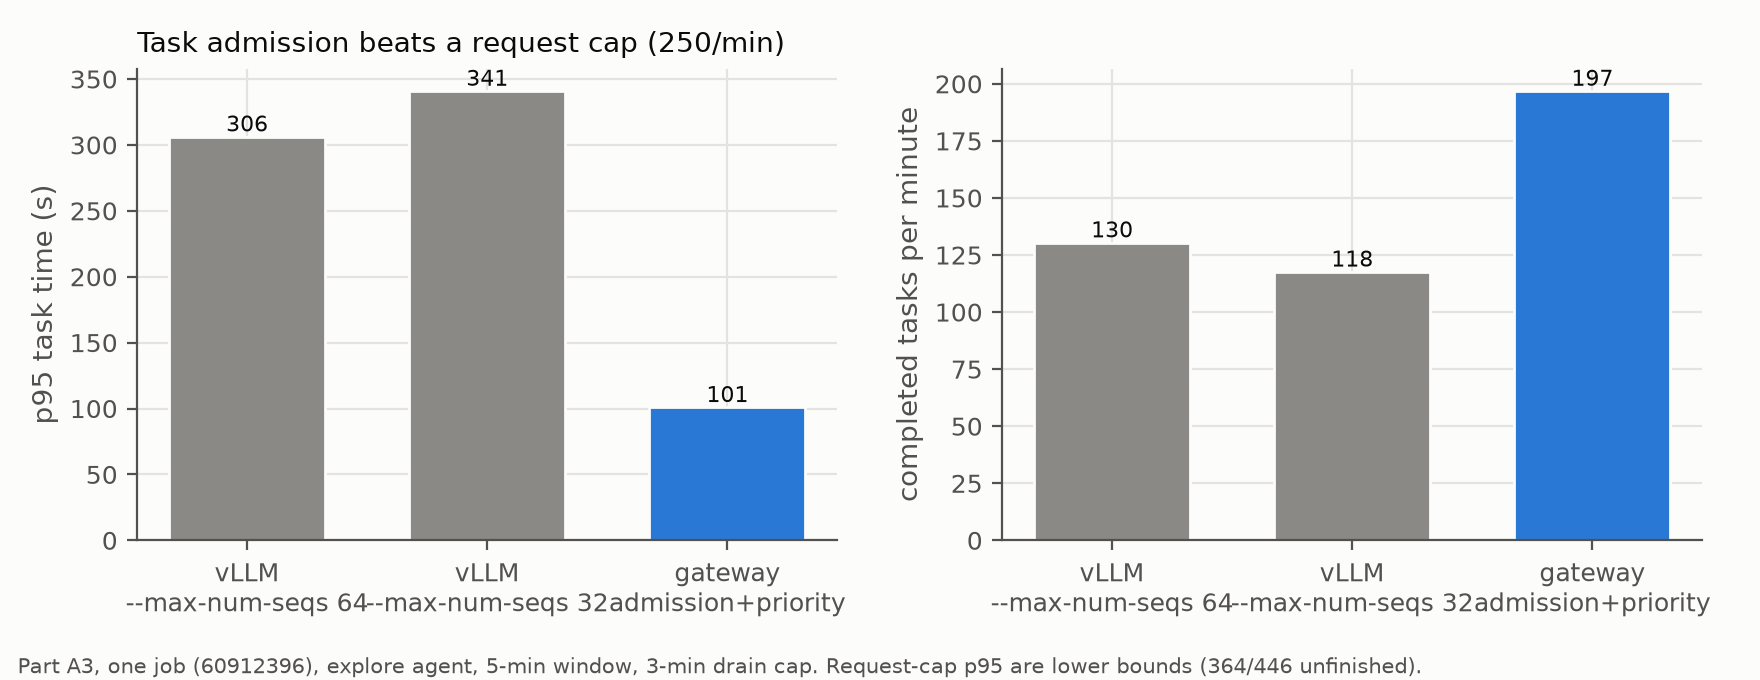
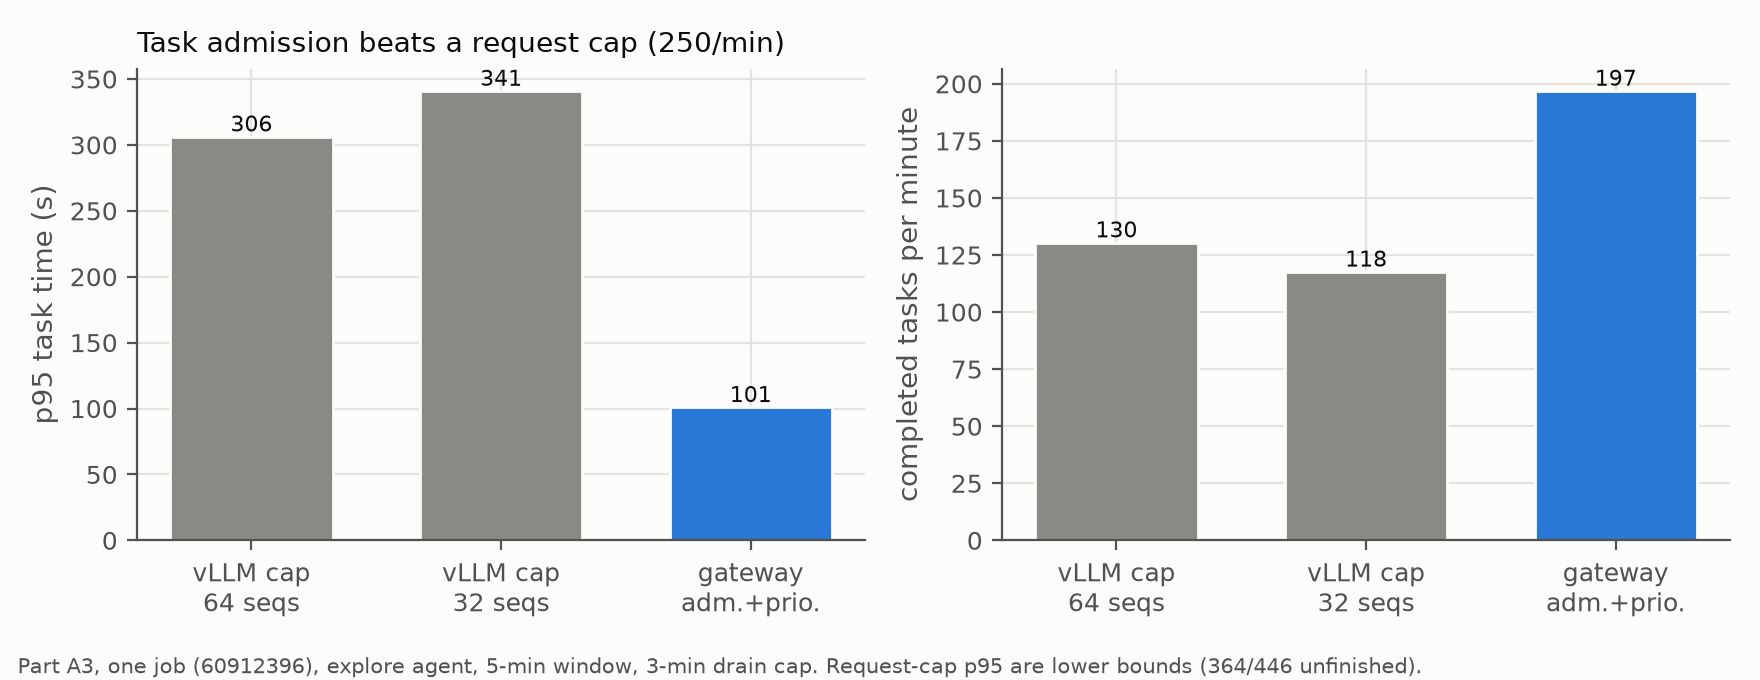
Figure A3: shorter x labels

diff --git a/results/figures.py b/results/figures.py
@@ -343,7 +343,7 @@ def part_a():
     # A3
     R = {k: rd(a3, f"{k}_r250") for k in ("reqcap64", "reqcap32", "both")}
     f, (b1, b2) = fig(2, w=4.4, h=3.4)
-    labs = [("reqcap64", "vLLM\n--max-num-seqs 64", "#8a8985"), ("reqcap32", "vLLM\n--max-num-seqs 32", "#8a8985"), ("both", "gateway\nadmission+priority", "#2a78d6")]
+    labs = [("reqcap64", "vLLM cap\n64 seqs", "#8a8985"), ("reqcap32", "vLLM cap\n32 seqs", "#8a8985"), ("both", "gateway\nadm.+prio.", "#2a78d6")]
     for ax, key, yl in ((b1, "p95_s", "p95 task time (s)"), (b2, "throughput_per_min", "completed tasks per minute")):
         v = [R[k][key] for k, _, _ in labs]
         ax.bar(range(3), v, color=[c for _, _, c in labs], edgecolor=SURFACE, width=0.65)
